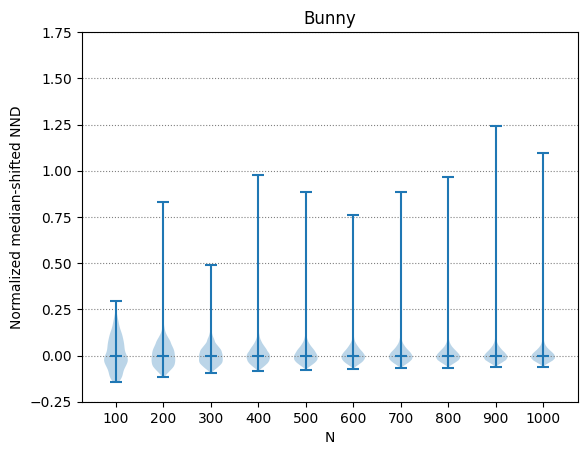
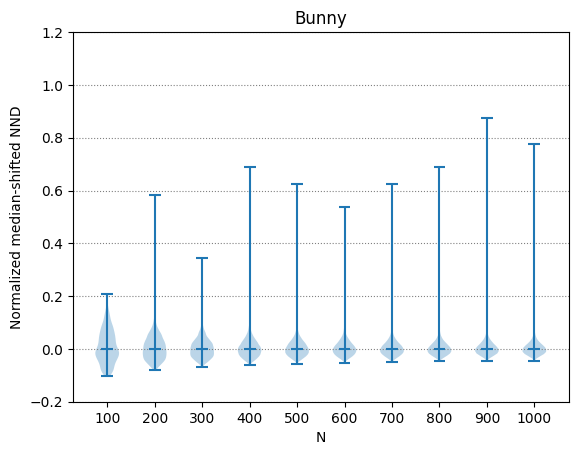
Use 'n' for normalizing

diff --git a/analysis/nearest_neighbor.py b/analysis/nearest_neighbor.py
@@ -86,7 +86,9 @@ def load_results(filename: str) -> tuple[list[int], list[list[float]]]:
 def plot_results(N_values: list[int], nnd: list[list[float]],  filename: str) -> None:
     for i in range(len(nnd)):
         median = np.median(nnd[i])
-        expected_distance = np.sqrt(model_areas[filename] / N_values[i])
+        points = utils.generate_equidistant_sphere_points(N_values[i])
+        n = np.size(points, 0)
+        expected_distance = np.sqrt(model_areas[filename] / n)
 
         for j in range(len(nnd[i])):
             nnd[i][j] = (nnd[i][j] - median) / expected_distance
@@ -97,7 +99,7 @@ def plot_results(N_values: list[int], nnd: list[list[float]],  filename: str) ->
 
     ax.set_ylabel('Normalized median-shifted NND')
     ax.set_xlabel('N')
-    ax.set_ylim([-0.25, 1.75])
+    ax.set_ylim([-0.2, 1.2])
     ax.set_xticks(range(1, len(N_values) + 1))
     ax.set_xticklabels(N_values)
     ax.set_title(filename)
